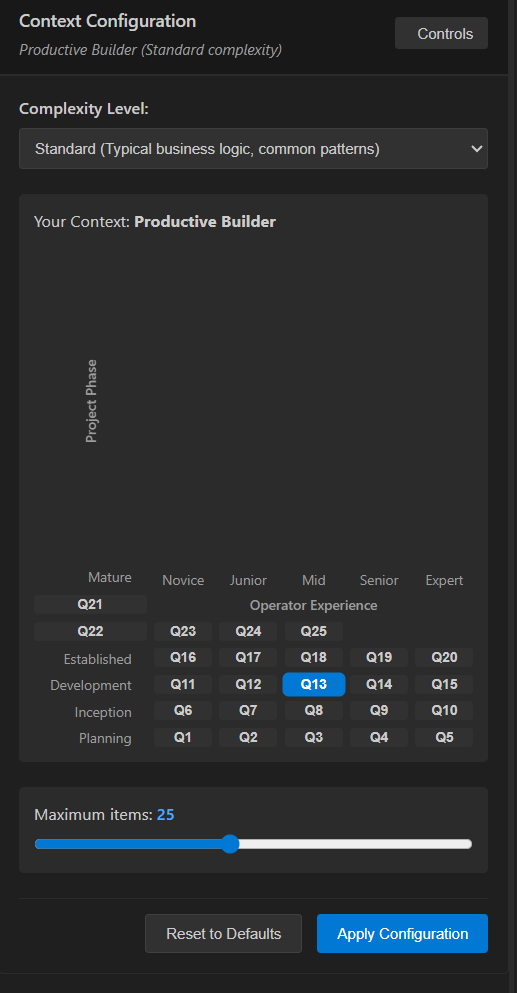
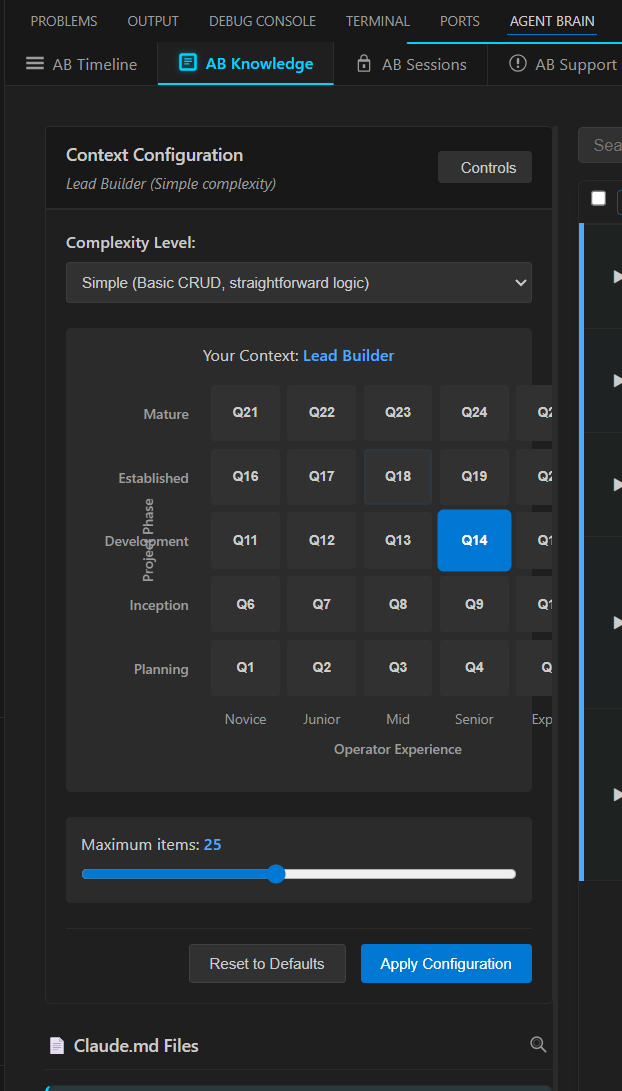
UX: Compact maturity grid, blue Controls button, fix Y-axis overlap
Improved maturity configuration panel based on user feedback to fit left panel,
match timeline UI styling, and clarify how complexity levels work.

## Changes

### Grid Compaction (knowledge.css)
**Reduced grid dimensions to fit left panel:**
- Column width: 90px → 65px (label column)
- Button min-width: 55px → 48px
- Row height: 45px → 40px
- Gap: 6px → 4px
- Font sizes: 11px → 10px
- Removed fixed max-width, now uses `max-width: 100%`

**Fixed Y-axis label overlap:**
- Moved Y-axis to `justify-content: flex-start` (flush left)
- Added `padding-left: 4px` to separate from edge
- Reduced row label padding: 12px → 8px

**Result:** Grid fits comfortably in left panel without horizontal scroll

### Blue Controls Button (knowledge.css)
Changed Controls button from gray to blue (primary button style):
```css
/* Before */
background: var(--vscode-button-secondaryBackground);  /* Gray */
color: var(--vscode-button-secondaryForeground);

/* After */
background: var(--vscode-button-background);  /* Blue */
color: var(--vscode-button-foreground);
```

Added `font-weight: 500` for consistency with primary buttons.
Matches timeline tab Controls button styling.

### Documentation (MaturityConfigPanel.ts)
Added comprehensive comment explaining how maturity context works:

**Single Unified Context (NOT separate per complexity):**
1. Select complexity level: Simple/Standard/Complex
2. Select ONE quadrant on grid (Operator × Project maturity)
3. Adjust max items slider
[…]

diff --git a/packages/core/src/domains/visualization/styles/components/knowledge.css b/packages/core/src/domains/visualization/styles/components/knowledge.css
@@ -1518,17 +1518,18 @@
   align-items: center;
   gap: 6px;
   padding: 6px 12px;
-  background: var(--vscode-button-secondaryBackground);
-  color: var(--vscode-button-secondaryForeground);
+  background: var(--vscode-button-background);
+  color: var(--vscode-button-foreground);
   border: none;
   border-radius: 3px;
   font-size: 12px;
+  font-weight: 500;
   cursor: pointer;
   transition: background 0.2s;
 }
 
 .btn-controls:hover {
-  background: var(--vscode-button-secondaryHoverBackground);
+  background: var(--vscode-button-hoverBackground);
 }
 
 .config-panel {
@@ -1581,12 +1582,12 @@
 
 .quadrant-grid-5x5 {
   display: grid;
-  grid-template-columns: 90px repeat(5, minmax(55px, 1fr));
-  grid-template-rows: repeat(5, 45px) auto auto;
-  gap: 6px;
-  max-width: 650px;
-  margin: 16px auto;
-  padding: 0 8px;
+  grid-template-columns: 65px repeat(5, minmax(48px, 1fr));
+  grid-template-rows: repeat(5, 40px) auto auto;
+  gap: 4px;
+  max-width: 100%;
+  margin: 12px 0;
+  padding: 0;
 }
 
 .grid-axis-y {
@@ -1594,13 +1595,13 @@
   grid-row: 1 / 6;
   display: flex;
   align-items: center;
-  justify-content: center;
-  font-size: 11px;
+  justify-content: flex-start;
+  font-size: 10px;
   font-weight: 600;
   color: var(--vscode-descriptionForeground);
   writing-mode: vertical-lr;
   transform: rotate(180deg);
-  padding: 8px 0;
+  padding: 8px 0 8px 4px;
 }
 
 .grid-axis-x {
@@ -1617,8 +1618,8 @@
   display: flex;
   align-items: center;
   justify-content: flex-end;
-  padding-right: 12px;
-  font-size: 11px;
+  padding-right: 8px;
+  font-size: 10px;
   font-weight: 500;
   color: var(--vscode-descriptionForeground);
 }
@@ -1634,7 +1635,7 @@
 
 .grid-col-label {
   text-align: center;
-  font-size: 11px;
+  font-size: 10px;
   color: var(--vscode-descriptionForeground);
 }
 
@@ -1643,10 +1644,12 @@
   color: var(--vscode-button-secondaryForeground);
   border: 2px solid transparent;
   border-radius: 3px;
-  font-size: 11px;
+  font-size: 10px;
   font-weight: 600;
   cursor: pointer;
   transition: all 0.2s;
+  padding: 4px 2px;
+  min-width: 0;
 }
 
 .quadrant-btn:hover {

diff --git a/packages/core/src/domains/visualization/ui/knowledge/MaturityConfigPanel.ts b/packages/core/src/domains/visualization/ui/knowledge/MaturityConfigPanel.ts
@@ -90,6 +90,19 @@ export class MaturityConfigPanel {
 
   /**
    * Render configuration panel content
+   *
+   * NOTE: The maturity context is a SINGLE unified configuration with 3 dimensions:
+   * - Complexity (Simple/Standard/Complex) - dropdown selection
+   * - Quadrant (1-25) - grid selection for Operator × Project maturity
+   * - Max items - slider
+   *
+   * You don't set separate quadrants per complexity level. Instead, you:
+   * 1. Select your complexity level (Simple/Standard/Complex)
+   * 2. Select ONE quadrant on the grid (your Operator × Project maturity)
+   * 3. Adjust max items if needed
+   * 4. Click "Apply Configuration" to save
+   *
+   * The complexity level affects which items are relevant, combined with the quadrant.
    */
   private renderConfigPanel(): string {
     return `
